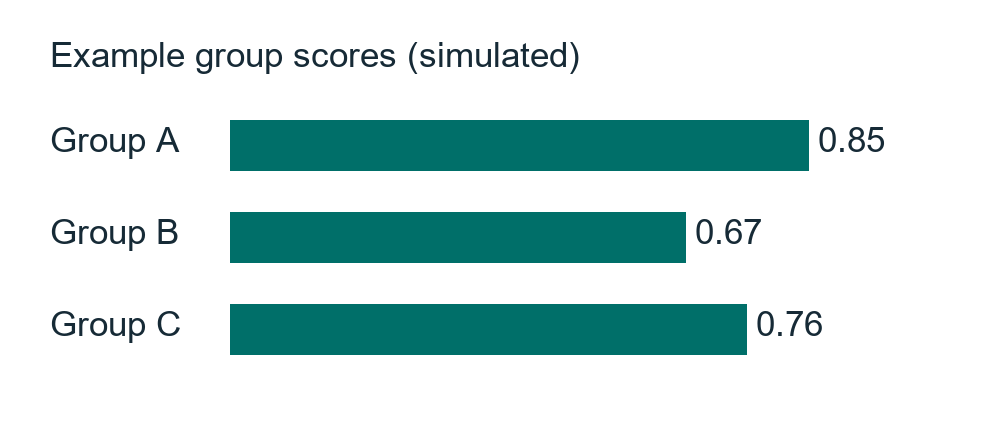
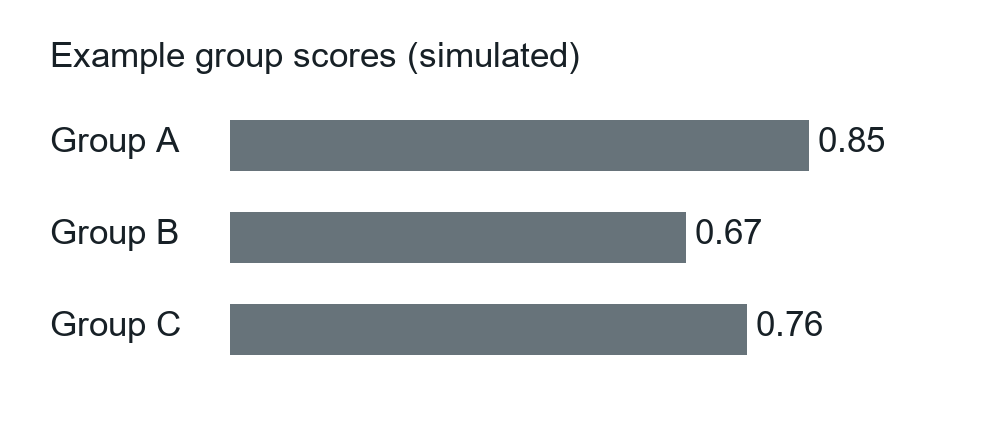
Refine research talk slides around one visual focus

Changed region(s): [[0.217, 0.2721, 0.806, 0.4233], [0.217, 0.6953, 0.744, 0.8465], [0.217, 0.4837, 0.713, 0.6349]]

diff --git a/scripts/build_deck.py b/scripts/build_deck.py
@@ -6,15 +6,19 @@ from pathlib import Path
 from pptx import Presentation
 from pptx.dml.color import RGBColor
 from pptx.enum.shapes import MSO_SHAPE
+from pptx.enum.text import PP_ALIGN
+from pptx.oxml.ns import qn
+from pptx.oxml.xmlchemy import OxmlElement
 from pptx.util import Inches, Pt
 
 
-INK = "162A36"
-ACCENT = "006F69"
-MUTED = "415765"
-PAPER = "FAFBFA"
-TINT = "E8F3F0"
+INK = "172026"
+ACCENT = "A64310"
+MUTED = "505960"
+PAPER = "FFFFFF"
 FONT = "Microsoft YaHei"
+MARGIN = 0.58
+CONTENT_W = 12.17
 
 
 def color(hex_value):
@@ -25,13 +29,22 @@ def box(slide, x, y, width, height, fill):
     shape = slide.shapes.add_shape(
         MSO_SHAPE.RECTANGLE, Inches(x), Inches(y), Inches(width), Inches(height)
     )
-    shape.fill.solid()
-    shape.fill.fore_color.rgb = color(fill)
+    style = shape._element.find(qn("p:style"))
+    if style is not None:
+        shape._element.remove(style)
     shape.line.fill.background()
+    if fill:
+        shape.fill.solid()
+        shape.fill.fore_color.rgb = color(fill)
+    else:
+        shape.fill.background()
     return shape
 
 
-def text(slide, value, x, y, width, height, size, ink=INK, bold=False):
+def text(slide, value, x, y, width, height, size, ink=INK, bold=False,
+         align=PP_ALIGN.LEFT, emphasis=""):
+    if not value:
+        return
     frame = slide.shapes.add_textbox(
         Inches(x), Inches(y), Inches(width), Inches(height)
     ).text_frame
@@ -40,10 +53,26 @@ def text(slide, value, x, y, width, height, size, ink=INK, bold=False):
     frame.margin_top = frame.margin_bottom = Pt(0)
     frame.text = value
     for paragraph in frame.paragraphs:
+        paragraph.alignment = align
+        paragraph.space_before = paragraph.space_after = Pt(0)
+        paragraph.line_spacing = 1.08
         paragraph.font.name = FONT
         paragraph.font.size = Pt(size)
         paragraph.font.bold = bold
         paragraph.font.color.rgb = color(ink)
+        # Explicit East Asian fallback keeps CJK text independent of the slide theme.
+        east_asian = OxmlElement("a:ea")
+        east_asian.set("typeface", FONT)
+        paragraph._p.get_or_add_pPr().get_or_add_defRPr().append(east_asian)
+        if emphasis and emphasis in paragraph.text:
+            before, _, after = paragraph.text.partition(emphasis)
+            paragraph.clear()
+            paragraph.add_run().text = before
+            focus = paragraph.add_run()
+            focus.text = emphasis
+            focus.font.color.rgb = color(ACCENT)
+            paragraph.add_run().text = after
+            emphasis = ""
 
 
 def picture(slide, path, x, y, width, height):
@@ -53,39 +82,66 @@ def picture(slide, path, x, y, width, height):
     shape.height = round(shape.height * scale)
     shape.left = Inches(x) + (Inches(width) - shape.width) // 2
     shape.top = Inches(y) + (Inches(height) - shape.height) // 2
+    return shape
+
+
+def outline_focus(slide, image, bounds):
+    x, y, width, height = bounds
+    if not (0 <= x < 1 and 0 <= y < 1 and width > 0 and height > 0
+            and x + width <= 1 and y + height <= 1):
+        raise ValueError("Highlight must lie within the image in normalized coordinates")
+    marker = box(slide, (image.left + image.width * x) / Inches(1),
+                 (image.top + image.height * y) / Inches(1),
+                 image.width * width / Inches(1), image.height * height / Inches(1), None)
+    marker.line.color.rgb = color(ACCENT)
+    marker.line.width = Pt(1.5)
 
 
 def draw_figure(slide, item, directory):
     images = item["images"]
     if not 1 <= len(images) <= 2:
         raise ValueError("A figure slide needs one or two images")
-    width = 12.17 if len(images) == 1 else 5.9
+    layout = item.get("layout", "row")
+    if layout not in {"row", "stack"}:
+        raise ValueError("Figure layout must be row or stack")
+    stacked = layout == "stack" and len(images) == 2
+    top = 1.42
+    bottom = 6.16 if item.get("takeaway") else 6.86
+    width = CONTENT_W if stacked or len(images) == 1 else (CONTENT_W - 0.35) / 2
+    block_height = (bottom - top - 0.18) / 2 if stacked else bottom - top
     for index, image in enumerate(images):
-        x = 0.58 + index * 6.27
-        picture(slide, directory / image["path"], x, 1.32, width, 4.45)
-        text(slide, image.get("caption", ""), x, 5.82, width, 0.34, 13, MUTED)
+        x = MARGIN if stacked else MARGIN + index * (width + 0.35)
+        y = top + index * (block_height + 0.18) if stacked else top
+        caption = image.get("caption", "")
+        image_height = block_height - (0.31 if caption else 0)
+        shape = picture(slide, directory / image["path"], x, y, width, image_height)
+        if "highlight" in image:
+            outline_focus(slide, shape, image["highlight"])
+        caption_y = (shape.top + shape.height) / Inches(1)
+        text(slide, caption, x, caption_y + 0.05,
+             width, 0.26, 12, MUTED, align=PP_ALIGN.CENTER)
 
 
 def draw_flow(slide, steps):
     if not 2 <= len(steps) <= 5:
         raise ValueError("A flow slide needs two to five steps")
-    width = (12.17 - (len(steps) - 1) * 0.28) / len(steps)
+    gap = 0.52
+    width = (CONTENT_W - (len(steps) - 1) * gap) / len(steps)
     for index, step in enumerate(steps):
-        x = 0.58 + index * (width + 0.28)
-        box(slide, x, 2.1, width, 2.7, TINT)
-        text(slide, step["label"], x + 0.18, 2.48, width - 0.36, 0.91, 22, ACCENT, True)
-        text(slide, step["body"], x + 0.18, 3.48, width - 0.36, 1.12, 16)
+        x = MARGIN + index * (width + gap)
+        text(slide, step["label"], x, 2.68, width, 0.8, 23, INK, True, PP_ALIGN.CENTER)
+        text(slide, step["body"], x, 3.63, width, 1.5, 17, MUTED, align=PP_ALIGN.CENTER)
         if index < len(steps) - 1:
-            text(slide, "→", x + width + 0.02, 3.12, 0.28, 0.42, 15, ACCENT)
+            text(slide, "→", x + width, 2.71, gap, 0.42, 18, MUTED, align=PP_ALIGN.CENTER)
 
 
 def draw_points(slide, points):
     if not 2 <= len(points) <= 4:
         raise ValueError("A points slide needs two to four points")
     for index, point in enumerate(points):
-        y = 1.58 + index * 1.13
-        box(slide, 0.58, y + 0.03, 0.06, 0.74, ACCENT)
-        text(slide, point, 0.84, y, 11.9, 0.86, 20)
+        y = 1.90 + index * 1.00
+        text(slide, "•", 1.22, y, 0.28, 0.48, 19, MUTED)
+        text(slide, point, 1.65, y, 10.45, 0.85, 22)
 
 
 def draw_slide(deck, item, directory, number):
@@ -93,12 +149,23 @@ def draw_slide(deck, item, directory, number):
     slide.background.fill.solid()
     slide.background.fill.fore_color.rgb = color(PAPER)
     kind = item["type"]
+    title = item["title"]
+    if not isinstance(title, str) or not title.strip():
+        raise ValueError("Slide title must be a nonempty string")
+    emphasis = item.get("emphasis", "")
+    highlights = sum("highlight" in image for image in item["images"]) if kind == "figure" else 0
+    if highlights + bool(emphasis) > 1:
+        raise ValueError("Use at most one highlight or title emphasis per slide")
+    if emphasis and not any(emphasis in line for line in title.splitlines()):
+        raise ValueError("Title emphasis must be a literal phrase on one line of the title")
     if kind in {"cover", "closing"}:
-        box(slide, 0.72, 1.75, 0.12, 3.38, ACCENT)
-        text(slide, item["title"], 1.02, 2.05, 11.1, 2.0, 38, INK, True)
-        text(slide, item.get("subtitle", ""), 1.04, 4.34, 10.9, 0.84, 19, MUTED)
+        text(slide, title, 1.00, 2.17, 11.33, 1.84, 39, INK, True,
+             PP_ALIGN.CENTER, emphasis)
+        text(slide, item.get("subtitle", ""), 1.00, 4.22, 11.33, 0.85,
+             18, MUTED, align=PP_ALIGN.CENTER)
     else:
-        text(slide, item["title"], 0.58, 0.36, 12.17, 0.82, 27, INK, True)
+        text(slide, title, MARGIN, 0.41, CONTENT_W, 0.92, 29, INK, True,
+             PP_ALIGN.CENTER, emphasis)
         if kind == "figure":
             draw_figure(slide, item, directory)
         elif kind == "flow":
@@ -107,11 +174,11 @@ def draw_slide(deck, item, directory, number):
             draw_points(slide, item["points"])
         else:
             raise ValueError(f"Unknown slide type: {kind}")
-        if item.get("takeaway"):
-            box(slide, 0.58, 6.24, 12.17, 0.52, TINT)
-            text(slide, item["takeaway"], 0.74, 6.34, 11.83, 0.31, 15, ACCENT, True)
-    text(slide, item.get("source", ""), 0.58, 7.05, 11.4, 0.28, 10, MUTED)
-    text(slide, str(number), 12.26, 7.05, 0.5, 0.28, 10, MUTED)
+        text(slide, item.get("takeaway", ""), MARGIN, 6.37, CONTENT_W, 0.54,
+             16, INK, align=PP_ALIGN.CENTER)
+    text(slide, item.get("source", ""), MARGIN, 7.10, 11.4, 0.25, 10, MUTED)
+    if kind not in {"cover", "closing"}:
+        text(slide, str(number), 12.25, 7.10, 0.5, 0.25, 10, MUTED, align=PP_ALIGN.RIGHT)
     if item.get("notes"):
         slide.notes_slide.notes_text_frame.text = item["notes"]
 
@@ -123,14 +190,22 @@ def main():
     args = parser.parse_args()
     if args.output.suffix.lower() != ".pptx":
         parser.error("Output must have a .pptx extension")
-    data = json.loads(args.manifest.read_text(encoding="utf-8-sig"))
-    slides = data["slides"]
+    try:
+        data = json.loads(args.manifest.read_text(encoding="utf-8-sig"))
+    except (OSError, ValueError) as exc:
+        parser.error(f"{args.manifest}: {exc}")
+    slides = data.get("slides") if isinstance(data, dict) else None
     if not isinstance(slides, list) or not slides:
         parser.error("The manifest must contain a nonempty slides list")
     deck = Presentation()
     deck.slide_width, deck.slide_height = Inches(13.3333), Inches(7.5)
     for number, item in enumerate(slides, start=1):
-        draw_slide(deck, item, args.manifest.parent, number)
+        try:
+            draw_slide(deck, item, args.manifest.parent, number)
+        except KeyError as exc:
+            parser.error(f"Slide {number}: missing field {exc}")
+        except (AttributeError, OSError, TypeError, ValueError) as exc:
+            parser.error(f"Slide {number}: {exc}")
     args.output.parent.mkdir(parents=True, exist_ok=True)
     deck.save(str(args.output))
 

diff --git a/references/layouts.md b/references/layouts.md
@@ -1,17 +1,25 @@
 # 图像主导的科研汇报
 
-参考朱河勤的 structRFM 学术报告所采用的组织方式：围绕一个研究问题，从背景转到模型与数据，再用基准、难例和局限完成论证。此技能用原创布局实现这种组织方式。
+参考朱河勤的 structRFM 学术报告，从背景收束到一个明确问题，再用方法图、基准比较和失败案例逐步回答。作者报告的 PDF 第 7–8 页先提出结构信息如何进入预训练，第 11 页单独展开遮盖机制，第 17–18 页分别看盲测结果和难例。这里复用的是图表的组织方法和视觉层级。
 
 | 页面 | 用于 | 页面核心 |
 | --- | --- | --- |
 | `cover` | 开场 | 研究题目和汇报场景 |
-| `flow` | 研究动机、数据或方法 | 两到五个可命名的环节，每个环节讲清它改变了什么 |
-| `figure` | 方法全图、基准、难例 | 一张图拉满阅读区，或两张图并排回答同一个问题 |
-| `points` | 对照设计、局限、讨论 | 两到四条有具体对象的陈述 |
+| `flow` | 关系比原图更适合用简图解释的方法 | 两到五个短步骤，用位置和箭头表达先后 |
+| `figure` | 方法、基准、难例 | 放大一个主图，或用两幅有关联的图回答同一个问题 |
+| `points` | 讨论与无法用图表达的限制 | 两到四条针对具体条件或结果的陈述 |
 | `closing` | 结束 | 结论或讨论问题 |
 
-先让听众知道问题，再告诉他们看图里的哪里。对多分面图，可选关键分面或拆成连续页面。方法页优先解释输入、变化和输出。实验页把「比较谁、在哪个数据集、用哪个指标」写入正文、图注或备注。保留最强基线和不利结果，避免将单任务改善推广到所有任务。
+## 如何让重点先被看到
 
-`source` 写短出处，例如“论文 DOI · 图 3d，p. 5”或“实验 E07 · 评估表第 4 行”。`notes` 可以写开场过渡、读图路径、结论边界和本页时长。不要从低清图中推测精确数字。对作者原图的重绘要在来源行标明“重绘”。
+- **决定一页讲什么，再决定怎么放。** 用标题说明这页研究的问题，或直接给出有证据支持的答案。标题已给出答案时，图下文字只用来解释实验条件、读法和例外。
+- **把空间给证据。** 流程图讲一个变化，结果页讲一个比较。对多分面图按论证挑选或拆分。并排用于逐项对照，两张很宽的图可上下放。需要听众频繁在两张图之间来回找信息时，分两页。
+- **用颜色指向要看的位置。** 页面的文字和背景以黑白灰为主。单页可强调一个短词，或在原图上圈出一个关键区域。原图用于区分模型、类别和变量的颜色完整保留。通过字号、留白、对齐和位置形成层级。
+- **把反例摆在观众面前。** 保留强基线和不利结果。若整体性能和局部例子各回答一个问题，让前后两页分别展示。实验页至少让听众知道比较对象、数据集与指标含义。会改变结论的条件就近写在图注或短句里，其余移入讲稿。
 
-默认使用浅色画布、左对齐题目、青色强调和底部来源。示例内容是为技能编写的演示素材。
+## 清单字段
+
+- `source` 用短出处，例如“论文 DOI · 图 3d，p. 5”。重绘注明来源与重绘。 `notes` 放读图顺序、过渡与解释细节。
+- `takeaway` 可选，用于图中难以直接读出的关键结论或适用条件。默认是普通文字。留空时图可使用更多空间。
+- `emphasis` 可选，填标题中实际出现的一个短语。也可在单个图片对象中用 `"highlight": [x, y, width, height]` 标出要讲的区域。坐标为相对于裁后图片左上角的比例，使用前检查细线是否挡住坐标或数据。每页最多选一种强调方式。
+- `figure` 支持一个或两个图。布局默认 `row`，两张宽图可用 `"layout": "stack"` 上下排列。图片对象的 `caption` 用单行短标签，紧跟各自的图。图内已有充分说明时可省略。

diff --git a/SKILL.md b/SKILL.md
@@ -5,13 +5,13 @@ description: Create editable Chinese or English PowerPoint decks for scientific 
 
 # Research Talk PPT
 
-Turn the scientific argument into an editable 16:9 deck. Default to the user's language and stated duration. If neither duration nor slide count is given, plan about 10–13 slides for 15 minutes. Use the local renderer when the requested deliverable is a local PPTX.
+Turn the scientific argument into an editable 16:9 deck. Default to the user's language, audience and timing. Follow an explicitly requested visual template when supplied.
 
-1. Read the supplied evidence. Prefer the paper and figures for claims and the latest verified run artifacts for the user's own results. DeepPaperNote output is a useful index. Check central values, cohorts, baselines and metric directions against their sources.
-2. Draft a slide sequence around the scientific question, source of evidence, mechanism, strongest comparison, failure case, and limitations. Adapt this order for progress talks or short talks. Use `references/layouts.md` for page selection and evidence handling.
-3. Prepare UTF-8 JSON following `examples/demo.json`. For figure pages, supply visually checked crops and preserve panel letters, axes, uncertainty and legends. Resolve image paths from the manifest directory. Place one supported takeaway on an evidence page, with a source locator and speaker notes.
-4. Build using Python 3.10+ with `python-pptx>=1.0.2,<2`. Resolve the script relative to this skill directory.
+1. Read the evidence. Prefer the paper and figures for claims and the latest verified run artifacts for the user's own results. Check central values, cohorts, baselines and metric directions. DeepPaperNote is a useful index.
+2. Read `references/layouts.md`. For each main slide, choose the question, the evidence the audience should look at first, and the answer they can take away. Plan the sequence from question to mechanism, comparison and boundary. Use an instructive failure or difficult example when available and give it a separate page when it answers a different question from the aggregate result.
+3. Build the page around the chosen figure or diagram. Crop to the relevant panels, retaining labels, axes, uncertainty and legends. If details are too small for projection, split the figures along the argument. Let the slide title or a short sentence under the evidence state the conclusion once. Put narration in notes and keep qualifiers visible when they change the meaning of the claim.
+4. Create a UTF-8 JSON manifest following `examples/demo.json`. Use a white canvas, dark main text, quiet sources and one optional highlight per slide. Preserve paper colors that encode scientific information. Use the local renderer for a local PPTX with Python 3.10+ and `python-pptx>=1.0.2,<2`. Resolve the script relative to this skill directory.
    `python scripts/build_deck.py path/to/deck.json path/to/output.pptx`
-5. Reopen the PPTX to verify slides, notes and media. Render with available PowerPoint or LibreOffice and inspect every slide at presentation size. Check Chinese glyphs, long titles, cropped panels, evidence footers and readability. Report any verification unavailable. Return the deck and optionally the editable manifest when requested.
+5. Render with PowerPoint or LibreOffice. Scan the deck as thumbnails to check that each slide has a clear focal point, then inspect every slide at presentation size for readable axes, labels, glyphs and footers. Reopen the PPTX to verify notes and separate image objects. Report any unavailable verification.
 
 Use only materials authorized for the requested audience. For public examples use original or appropriately licensed assets with attribution. Keep source figures as separate image objects. Use native editable text and shapes for the narrative and simple diagrams.

diff --git a/README.md b/README.md
@@ -2,6 +2,10 @@
 
 一个面向中文组会、论文精读和科研进展汇报的 Codex Agent Skill。将论文证据、预裁切图表和演讲笔记整理成以图为主、可编辑的 PowerPoint。内置封面、流程、单图/双图、讨论、结束五类页。
 
+页面默认使用白底和深色文字。先为每页挑出最能回答问题的图或分面，再决定是否需要一个局部强调。短出处与图注保留在页面上，读图顺序和补充解释写入演讲者备注。
+
+![单图结果页。灰色柱形保持统一，细框只标出需要讨论的 B 组](examples/preview.png)
+
 ## 安装到 Codex
 
 将本仓库复制到个人技能目录下的 `research-talk-ppt` 文件夹，使 `SKILL.md` 直接位于该文件夹内。Windows 上通常是 `%USERPROFILE%\.codex\skills\research-talk-ppt`。
@@ -19,6 +23,6 @@ python -m pip install "python-pptx>=1.0.2,<2"
 python scripts/build_deck.py examples/demo.json demo.pptx
 ```
 
-JSON 中的相对图片路径以该 JSON 所在目录为基准。可在 PowerPoint 中修改文字、流程和备注，替换图像对象。论文插图的内部细节由其原始文件格式决定。导出 PDF 或逐页预览可用 PowerPoint 或 LibreOffice。
+JSON 中的相对图片路径以该 JSON 所在目录为基准。[布局与字段说明](references/layouts.md)介绍了双图排法、图中标注和文字强调。可在 PowerPoint 中修改文字、流程和备注，替换图像对象。论文插图的内部细节由其原始文件格式决定。导出 PDF 或逐页预览可用 PowerPoint 或 LibreOffice。模板使用 Microsoft YaHei，缺少该字体时请检查替代字体的换行。
 
 叙事参考 Heqin Zhu 的 structRFM 学术报告。仓库提供原创版式与示例，参考 PDF、机构标识和论文配图由使用者在本地按需提供。
